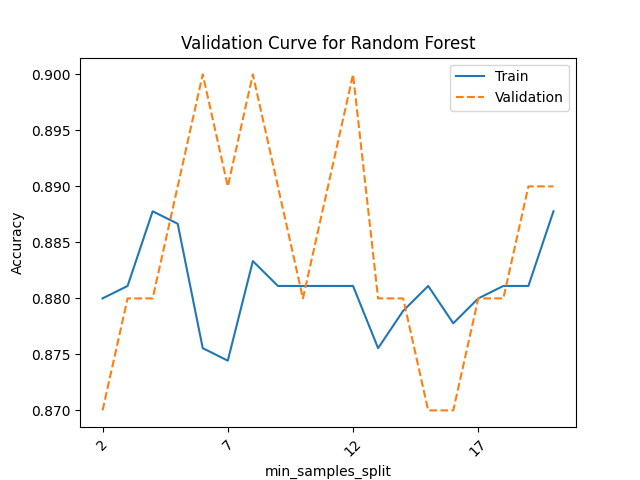
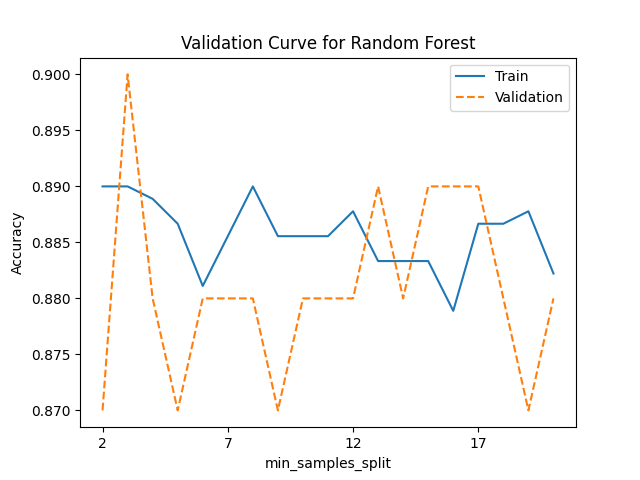
random seed

diff --git a/rF_validationCurve_min_samples_split.py b/rF_validationCurve_min_samples_split.py
@@ -9,6 +9,10 @@ from sklearn.model_selection import train_test_split, cross_val_score
 from sklearn.ensemble import RandomForestClassifier
 import matplotlib.pyplot as plt
 import numpy as np
+import random
+
+random.seed(26)
+np.random.seed(26)
 # fetch dataset 
 online_shoppers_purchasing_intention_dataset = fetch_ucirepo(id=468) 
   
@@ -46,8 +50,7 @@ plt.xlabel('min_samples_split')
 plt.ylabel('Accuracy')
 plt.title('Validation Curve for Random Forest')
 plt.xticks(range(min(min_samples_split_range), max(min_samples_split_range), 5)) 
-
-plt.xticks(rotation=45) 
+# plt.xticks(rotation=45) 
 plt.legend()
 plt.savefig("Validation Curve for Random Forest (min_samples_split).png")
 plt.show()

diff --git a/rF_validationCurve_max_depth.py b/rF_validationCurve_max_depth.py
@@ -9,6 +9,11 @@ from sklearn.model_selection import train_test_split, cross_val_score
 from sklearn.ensemble import RandomForestClassifier
 import matplotlib.pyplot as plt
 import numpy as np
+import random
+
+random.seed(26)
+np.random.seed(26)
+
 online_shoppers_purchasing_intention_dataset = fetch_ucirepo(id=468) 
   
 X = online_shoppers_purchasing_intention_dataset.data.features 
@@ -45,7 +50,7 @@ plt.ylabel('Accuracy')
 plt.title('Validation Curve for Random Forest')
 plt.xticks(range(min(max_depth_range), max(max_depth_range) + 1, 5))
 
-plt.xticks(rotation=45) 
+# plt.xticks(rotation=45) 
 plt.legend()
 plt.savefig("Validation Curve for Random Forest (max_depth).png")
 plt.show()

diff --git a/rF_validationCurve_n_estimators.py b/rF_validationCurve_n_estimators.py
@@ -9,6 +9,11 @@ from sklearn.model_selection import train_test_split, cross_val_score
 from sklearn.ensemble import RandomForestClassifier
 import matplotlib.pyplot as plt
 import numpy as np
+import random
+
+random.seed(26)
+np.random.seed(26)
+
 # fetch dataset 
 online_shoppers_purchasing_intention_dataset = fetch_ucirepo(id=468) 
   
@@ -46,5 +51,6 @@ plt.xlabel('n_estimators')
 plt.ylabel('Accuracy')
 plt.title('Validation Curve for Random Forest')
 plt.legend()
+
 plt.savefig("Validation Curve for Random Forest (n_estimators).png")
 plt.show()
